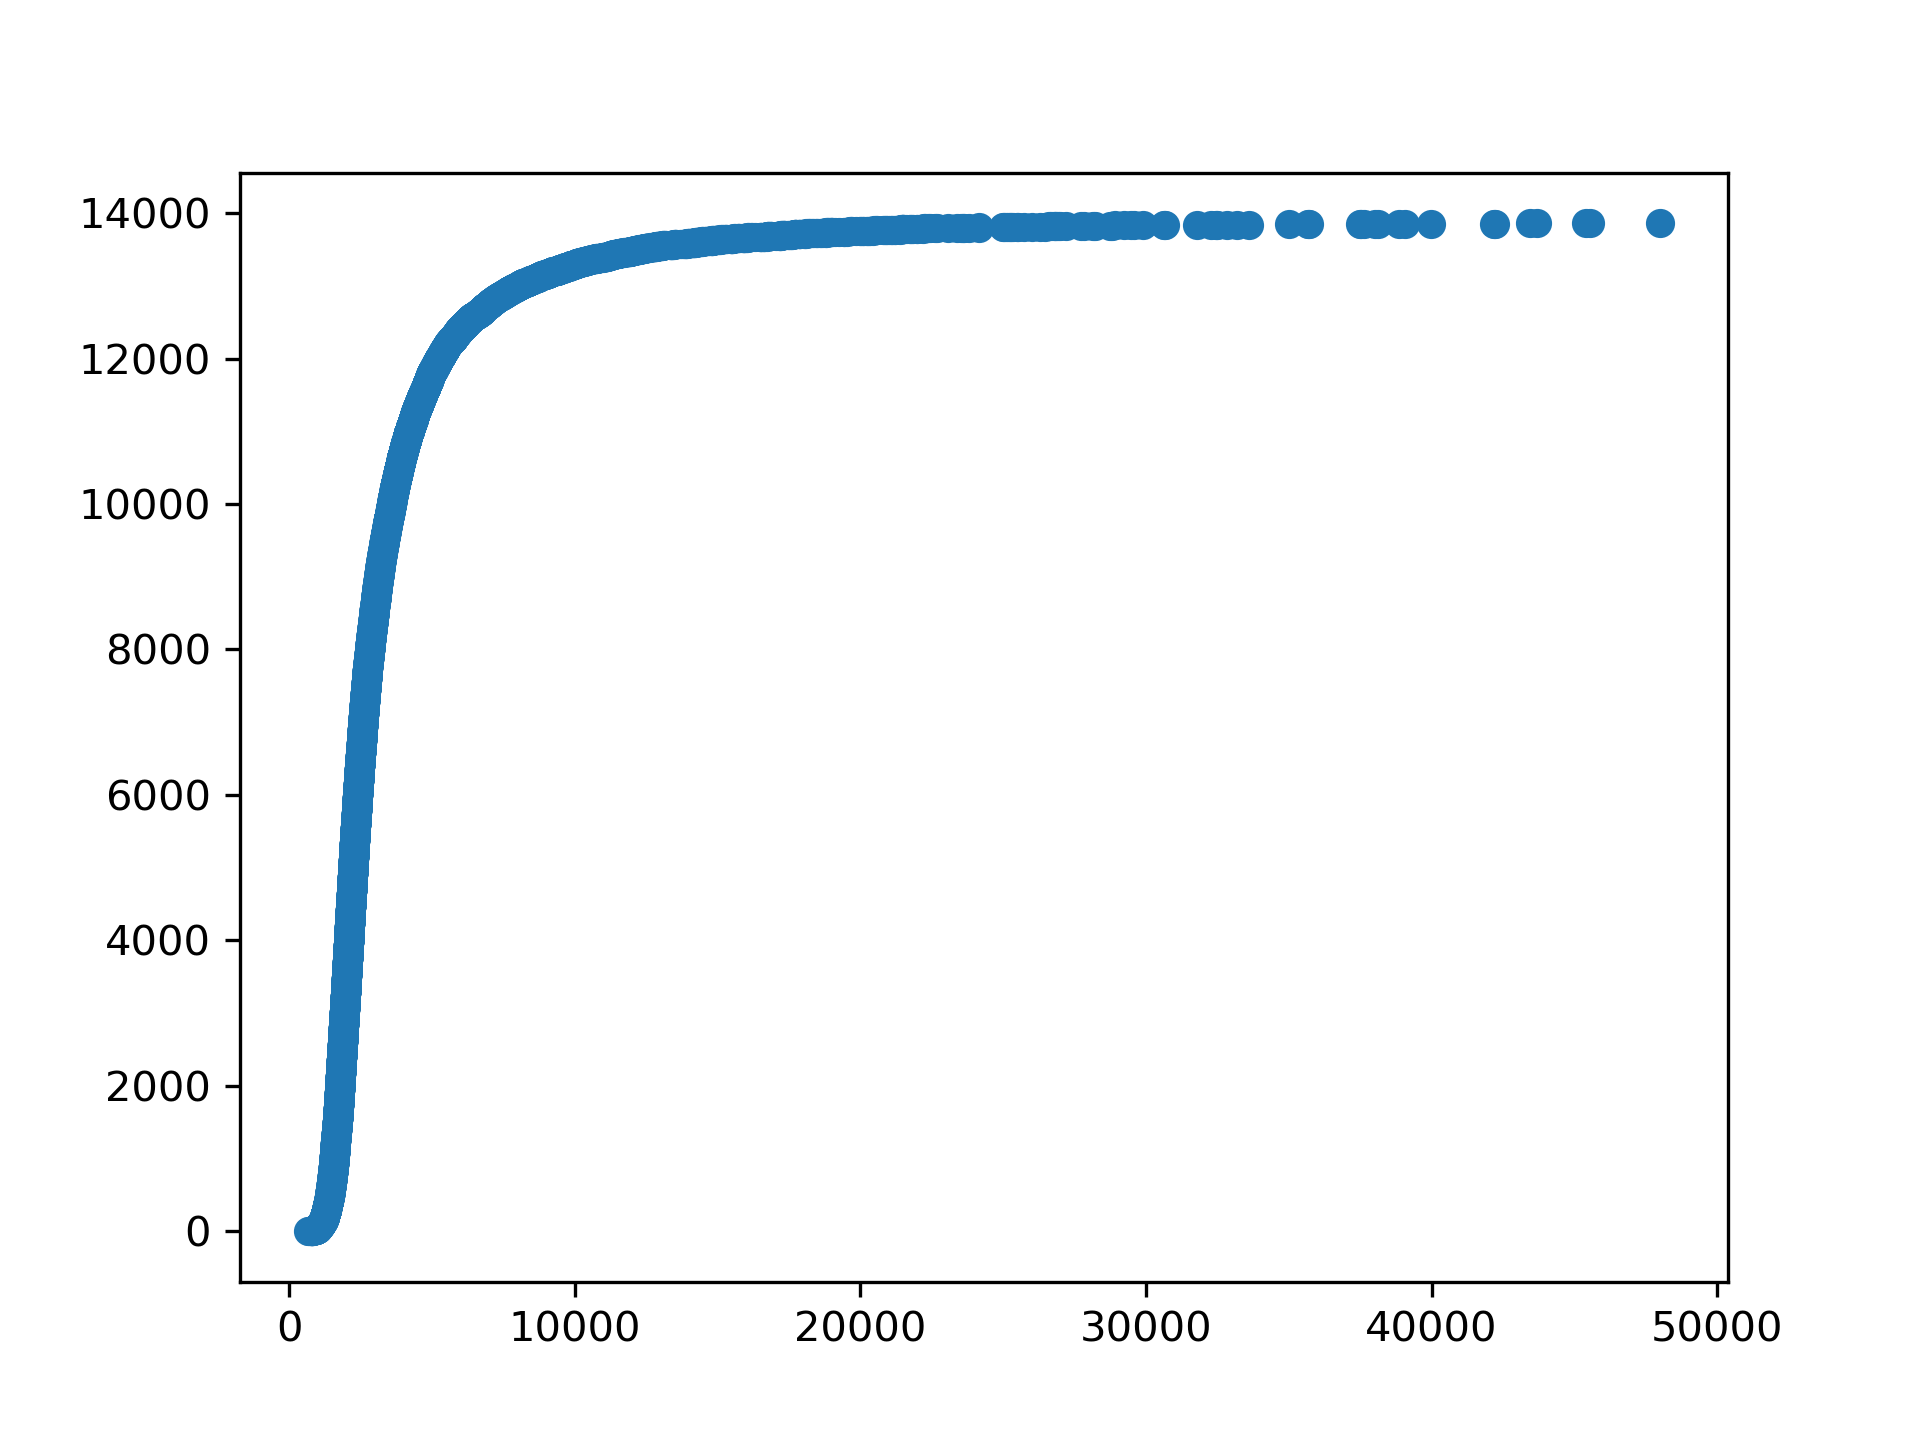
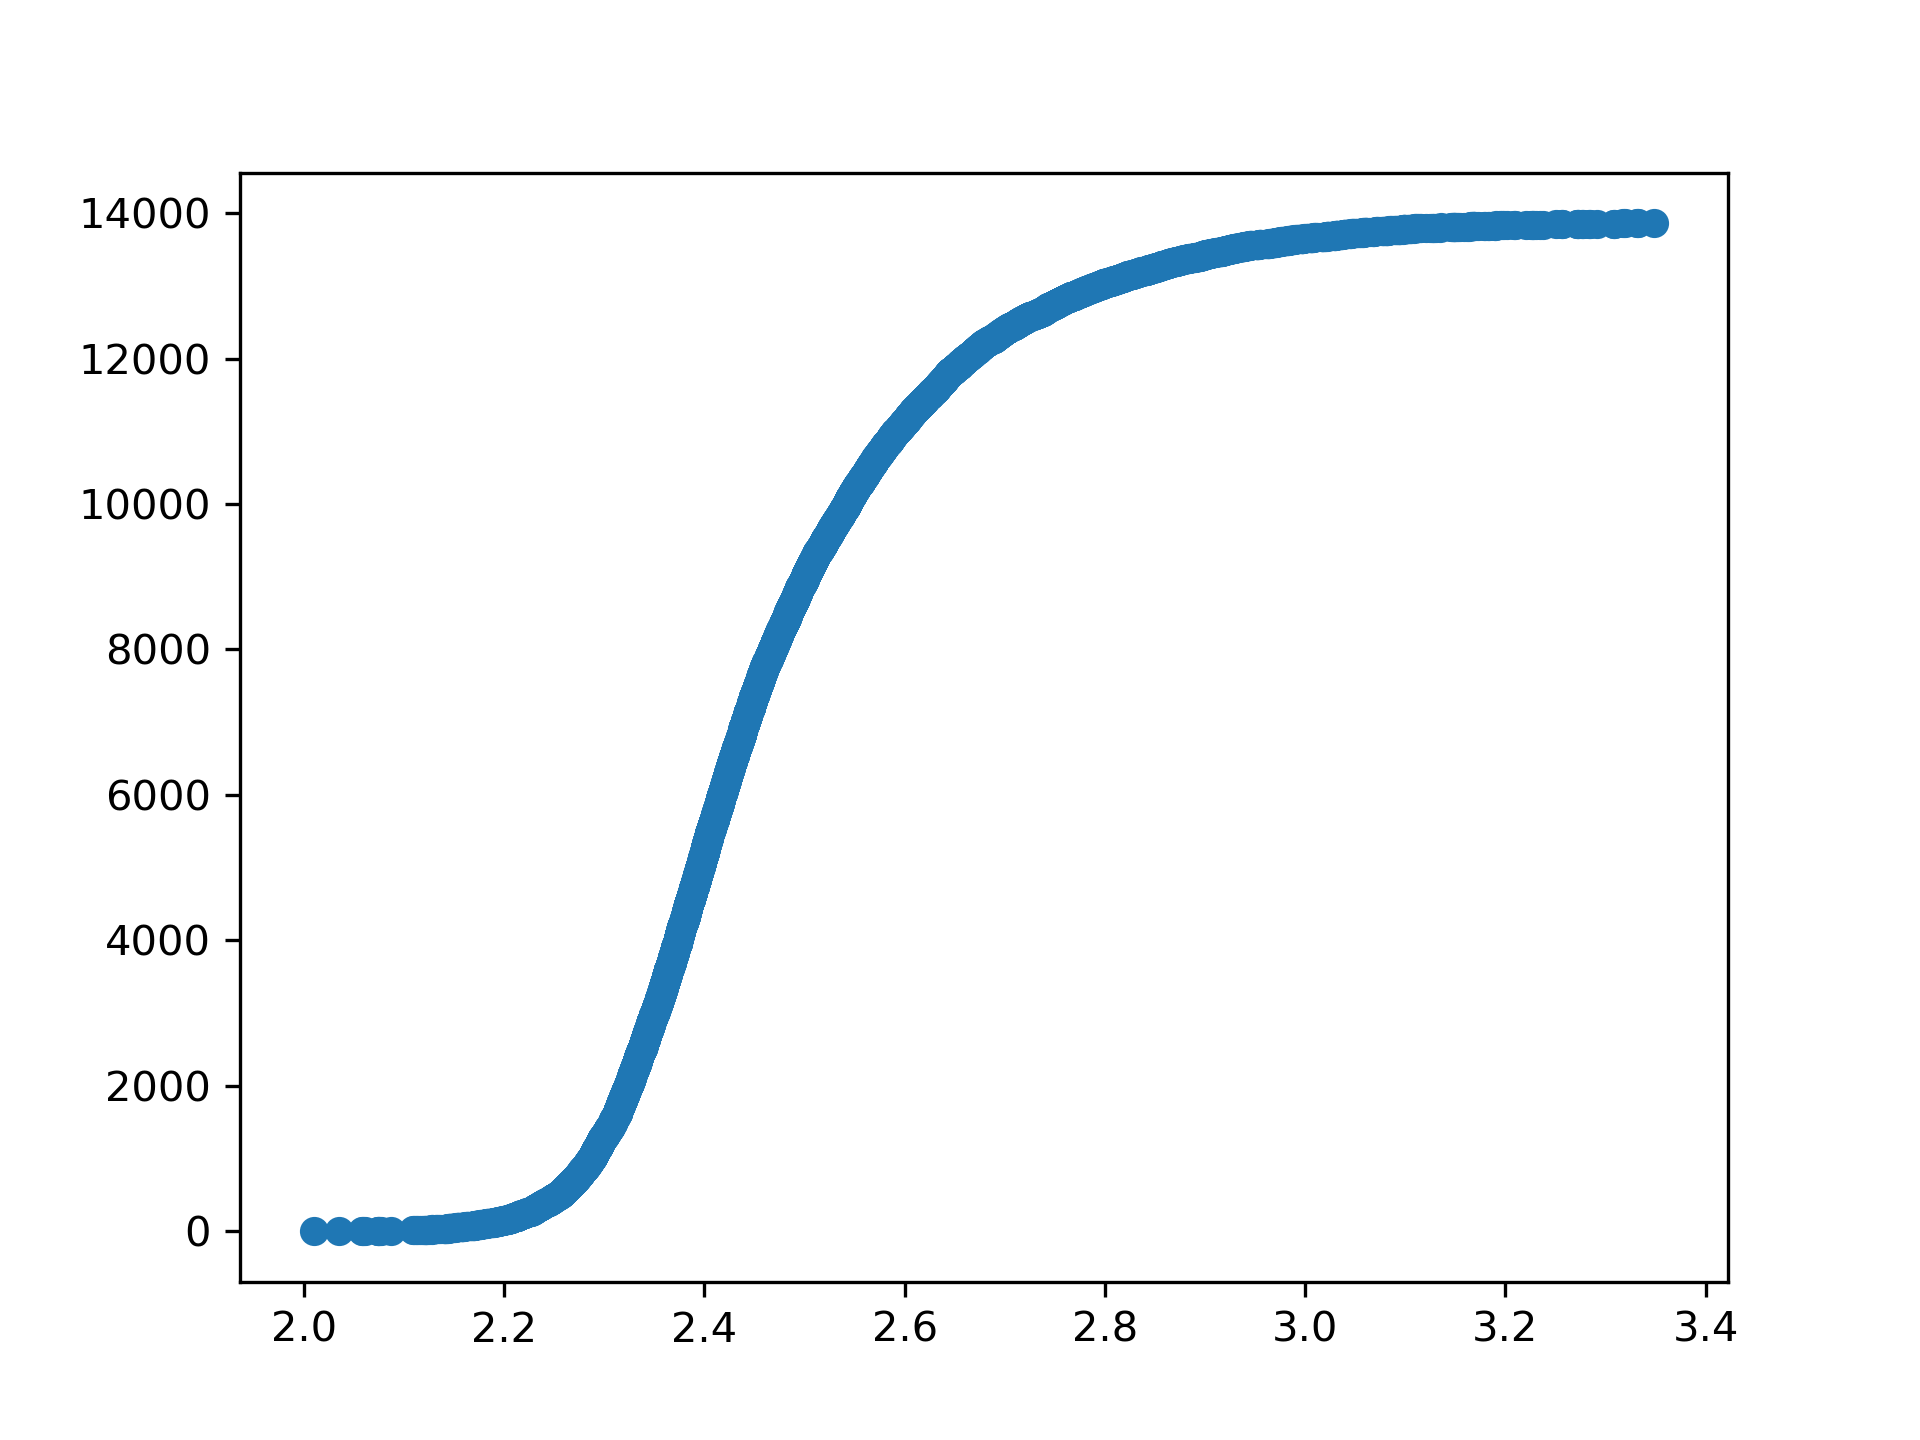
colorchange

diff --git a/colorplotter.py b/colorplotter.py
@@ -1,9 +1,10 @@
 import pandas as pd
 import matplotlib.pyplot as plt
 import matplotlib.colors as colors
+import matplotlib
 import numpy as np
 
-data = pd.read_csv("FinalData\Data2009.csv")
+data = pd.read_csv("FinalData\Data2018.csv")
 
 
 fig = plt.figure()
@@ -25,7 +26,7 @@ for i in range(len(data["longitude"])):
 xall = [i for i in range(len(a))]
 yall = sorted(a)
 
-ax.scatter(x, y, c=t, cmap='gist_stern', s=(t/15000)**3, alpha = 0.8, marker=r'$\odot$')
+ax.scatter(x, y, c=t, cmap='magma_r', s=(t/15000)**3, alpha = 0.8, marker=r'$\odot$', norm=matplotlib.colors.LogNorm())
             # ax.plot(x, y, marker = '.', markersize = '0.3', linestyle='None', color = "red")
 
 bx.scatter(xall, yall)
@@ -37,4 +38,4 @@ y0, y1 = 52.318159, 52.424294
 img = plt.imread("amsterdamhdmap.png")
 ax.imshow(img, extent = [x0, x1, y0, y1], aspect = "auto", zorder = 0)
 
-plt.savefig("initialPlots\initialPlot2009.png", dpi = 1300)
+plt.savefig("initialPlots\initialPlot2018.png", dpi = 1300)

diff --git a/schalen.py b/schalen.py
@@ -2,6 +2,7 @@ import pandas as pd
 import matplotlib.pyplot as plt
 import matplotlib.colors as colors
 import numpy as np
+import math
 
 data = pd.read_csv("FinalData\Data2009.csv")
 
@@ -16,13 +17,13 @@ for i in range(len(data["longitude"])):
             # x.append(data["latitude"][i])
             # temp = np.array([data["SJV"][i]])
             # sizetemp = np.array((data["SJV"][i]/20000) ** 1.2)
-            a.append(data["SJV"][i])
+            a.append(math.log(data["SJV"][i], 25))
             # size = np.concatenate([t, sizetemp])
             # t = np.concatenate([t, temp])
         
-yall = [i for i in range(len(a))]
-xall = sorted(a)
-
+xall = [i for i in range(len(a))]
+yall = sorted(a)
+print(xall)
 # ax.scatter(x, y, c=t, cmap='gist_stern', s=(t/15000)**3, alpha = 0.8, marker=r'$\odot$')
 #             # ax.plot(x, y, marker = '.', markersize = '0.3', linestyle='None', color = "red")
 
